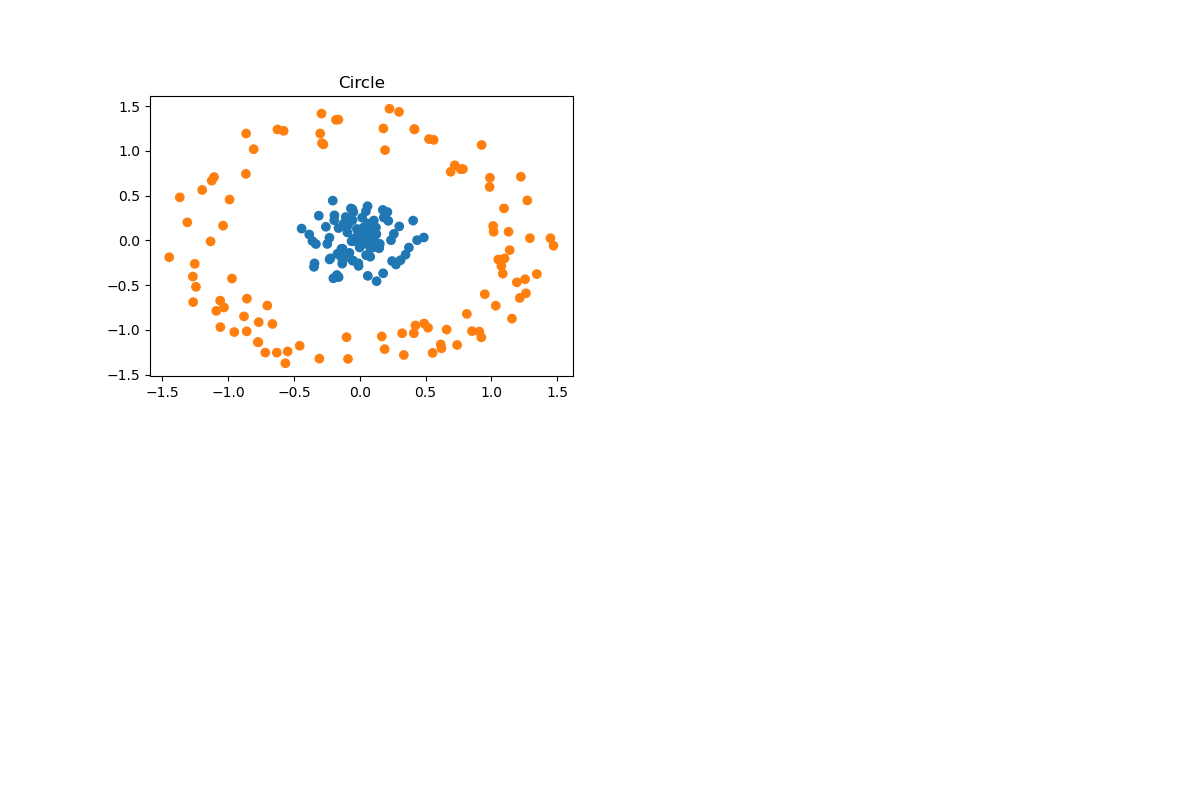
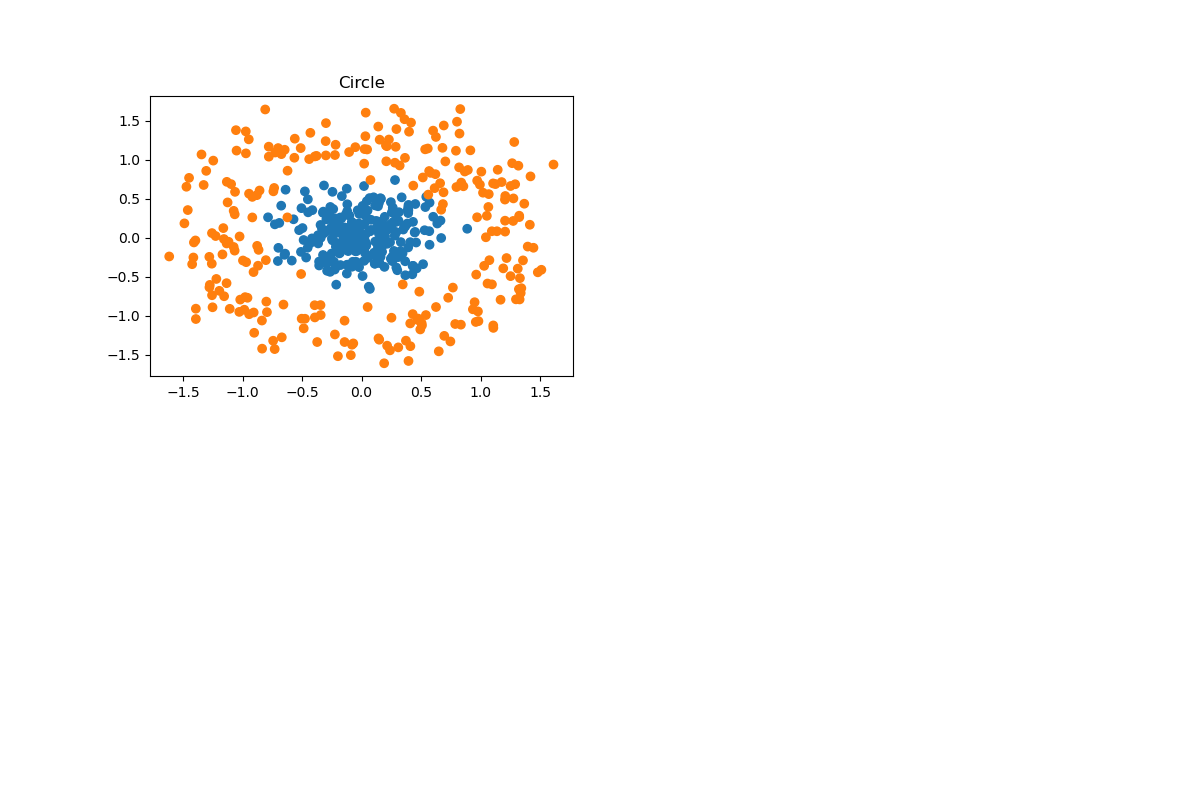
perceptron2 ready

diff --git a/lab2/lab2.py b/lab2/lab2.py
@@ -2,53 +2,60 @@ import numpy as np
 import matplotlib.pyplot as plt
 from typing import Tuple
 
-N = 100
+from torch import nn, optim
+import torch
+
+TRAINING_N = 80
+VALIDATION_N = 20
+TEST_N = 20
+
 BLUE_CLR = '#1f77b4'
 ORANGE_CLR = '#ff7f0e'
 
 def generate_circle_data(N: int) -> Tuple[np.ndarray, np.ndarray]:
-    noise = 0
+    noise = 0.2
 
     center_angles = np.random.uniform(0, 2 * np.pi, N)
     center_radius = np.random.uniform(0, 0.5, N)
-    center_x = center_radius * np.cos(center_angles) + np.random.normal(0, noise, N)
-    center_y = center_radius * np.sin(center_angles) + np.random.normal(0, noise, N)
-    center_labels = np.full(N, BLUE_CLR)
+    center_x1 = center_radius * np.cos(center_angles) + np.random.normal(0, noise, N)
+    center_x2 = center_radius * np.sin(center_angles) + np.random.normal(0, noise, N)
+    center_labels = np.full(N, 0)
 
     boundary_angles = np.random.uniform(0, 2 * np.pi, N)
     boundary_radius = np.random.uniform(1, 1.5, N)
-    boundary_x = boundary_radius * np.cos(boundary_angles) + np.random.normal(0, noise, N)
-    boundary_y = boundary_radius * np.sin(boundary_angles) + np.random.normal(0, noise, N)
-    boundary_labels = np.full(N, ORANGE_CLR)
+    boundary_x1 = boundary_radius * np.cos(boundary_angles) + np.random.normal(0, noise, N)
+    boundary_x2 = boundary_radius * np.sin(boundary_angles) + np.random.normal(0, noise, N)
+    boundary_labels = np.full(N, 1)
 
-    labels = np.concatenate((center_labels, boundary_labels))
-    samples = np.vstack((np.column_stack((center_x, center_y)), np.column_stack((boundary_x, boundary_y))))
+    y = np.concatenate((center_labels, boundary_labels))
+    x = np.vstack((np.column_stack((center_x1, center_x2)), np.column_stack((boundary_x1, boundary_x2))))
 
-    return samples, labels
+    return x, y
 
 def generate_xor_data(N: int) -> Tuple[np.ndarray, np.ndarray]:
-    x = np.random.uniform(-6, 6, N)  # Генерируем случайные точки в квадрате [0, 1] x [0, 1]
-    y = np.random.uniform(-6, 6, N)
-    samples = np.column_stack((x, y))
-    values = np.logical_xor(samples[:, 0] > 0, samples[:, 1] > 0).astype(int)  # XOR логика
-    labels = np.where(values > 0, ORANGE_CLR, BLUE_CLR)
-    print(samples)
-    return samples, labels
+    x1 = np.random.uniform(-6, 6, N)  # Генерируем случайные точки в квадрате [0, 1] x [0, 1]
+    x2 = np.random.uniform(-6, 6, N)
+    x = np.column_stack((x1, x2))
+    values = np.logical_xor(x[:, 0] > 0, x[:, 1] > 0).astype(int)  # XOR логика
+    y = np.where(values > 0, 0, 1)
+    return x, y
 
 def generate_gaussian_data(N: int) -> Tuple[np.ndarray, np.ndarray]:
     mean1 = [0, 0]
     cov1 = [[0.1, 0], [0, 0.1]]
+    
     mean2 = [1, 1]
     cov2 = [[0.1, 0], [0, 0.1]]
+    
     class1 = np.random.multivariate_normal(mean1, cov1, N)
-
+    
     class2 = np.random.multivariate_normal(mean2, cov2, N)
 
     x = np.vstack((class1, class2))
 
-    labels = np.hstack((np.full(N, ORANGE_CLR), np.full(N, BLUE_CLR)))  # 0 для первого класса, 1 для второго
+    y = np.hstack((np.full(N, 0), np.full(N, 1)))  # 0 для первого класса, 1 для второго
 
-    return x, labels
+    return x, y
 
 def generate_spiral_data(N: int) -> Tuple[np.ndarray, np.ndarray]:
     noise = 0.1
@@ -56,16 +63,16 @@ def generate_spiral_data(N: int) -> Tuple[np.ndarray, np.ndarray]:
     theta = np.linspace(-4 * np.pi, 0, N)  # Угол
     r = theta  # Радиус
     
-    x1 = r * np.cos(theta) + np.random.normal(0, noise, N)
-    y1 = r * np.sin(theta) + np.random.normal(0, noise, N)
+    first_x1 = r * np.cos(theta) + np.random.normal(0, noise, N)
+    first_x2 = r * np.sin(theta) + np.random.normal(0, noise, N)
 
-    x2 = r * np.cos(theta + np.pi) + np.random.normal(0, noise, N)
-    y2 = r * np.sin(theta + np.pi) + np.random.normal(0, noise, N)
+    second_x1 = r * np.cos(theta + np.pi) + np.random.normal(0, noise, N)
+    second_x2 = r * np.sin(theta + np.pi) + np.random.normal(0, noise, N)
 
-    samples = np.vstack((np.column_stack((x1, y1)), np.column_stack((x2, y2))))
-    labels = np.hstack((np.full(N, ORANGE_CLR), np.full(N, BLUE_CLR)))
+    x = np.vstack((np.column_stack((first_x1, first_x2)), np.column_stack((second_x1, second_x2))))
+    y = np.hstack((np.full(N, ORANGE_CLR), np.full(N, BLUE_CLR)))
 
-    return samples, labels
+    return x, y
 
 # CIRCLE
 # circle_samples, circle_labels = generate_circle_data(N)
@@ -88,7 +95,63 @@ def generate_spiral_data(N: int) -> Tuple[np.ndarray, np.ndarray]:
 # plt.savefig("gaussian.png")
 
 # SPIRAL
-spiral_samples, spiral_labels = generate_spiral_data(N)
-plt.scatter(spiral_samples[:, 0], spiral_samples[:, 1], c=spiral_labels)
-plt.title("Spiral")
-plt.savefig("spiral.png")
+# spiral_samples, spiral_labels = generate_spiral_data(N)
+# plt.scatter(spiral_samples[:, 0], spiral_samples[:, 1], c=spiral_labels)
+# plt.title("Spiral")
+# plt.savefig("spiral.png")
+
+
+class Perceptron1(nn.Model):
+    def __init__(self):
+        super(Perceptron1, self).__init__()
+        self.fully_connected = nn.Linear(2, 1)
+        self.activation_function = nn.Sigmoid()
+
+class Perceptron2(nn.Module):
+    def __init__(self):
+        super(Perceptron2, self).__init__()
+        self.fully_connected = nn.Linear(2, 1) # (x1, x2) --> y
+        self.activation_function = torch.heaviside()
+
+    def forward(self, x):
+        return self.activation_function(self.fully_connected(x))
+
+
+train_x_samples, train_y_samples = generate_gaussian_data(TRAINING_N)
+test_x_samples, test_y_samples = generate_gaussian_data(TEST_N)
+
+train_y_samples = torch.tensor(train_y_samples, dtype=torch.float32).view(-1, 1)
+test_y_samples = torch.tensor(test_y_samples, dtype=torch.float32).view(-1, 1)
+
+plt.scatter(x=train_x_samples[:,0], y=train_x_samples[:,1], c=train_y_samples)
+plt.title("xor model test")
+plt.savefig("xortest.png")
+
+# Преобразуем numpy массивы в тензоры PyTorch
+train_x_samples = torch.tensor(train_x_samples, dtype=torch.float32)
+test_x_samples = torch.tensor(test_x_samples, dtype=torch.float32)
+
+
+# Создание модели, функции потерь и оптимизатора
+model = Perceptron2()
+criterion = nn.BCELoss()  # Функция ошибки, в данном случаем бинарная кросс-энтропия
+optimizer = optim.SGD(model.parameters(), lr=0.1)
+
+# Обучение модели
+epochs = 1000
+for epoch in range(epochs):
+    optimizer.zero_grad() # Сбрасываем значения градиента
+    outputs = model(train_x_samples) # Вычисляем выходные значения по выборке на текущей итерации
+    loss = criterion(outputs, train_y_samples) # Вычисляем функцию ошибки
+    loss.backward() #Обратное распространенние ошибки
+    optimizer.step() #Снова вычисляем градиент
+    
+    if (epoch+1) % 100 == 0:
+        print(f'Epoch [{epoch+1}/{epochs}], Loss: {loss.item():.4f}')
+
+# Тестирование модели
+with torch.no_grad():
+    predictions = model(test_x_samples)
+    loss = criterion(predictions, test_y_samples)
+    print(f"Test samples loss function: {loss.item():.4f}")
+    # print("Predictions:", predictions.numpy())
